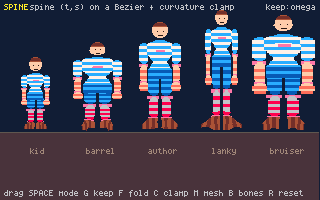
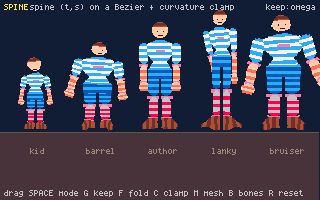
boxhuman: five attitudes, not just five bodies (per-build rest pose)

diff --git a/tools/carts/boxhuman.c b/tools/carts/boxhuman.c
@@ -9,13 +9,14 @@
   "teaches": ["rigid-body", "procedural-mesh"],
   "lineage": "Slice 4 of the playtime-into-dreamengine port. puppet.c gave the data-driven Rig (parts + sprung hinges); boxskin.c skinned ONE texture across ONE elbow with LBS. This is the whole figure: the 1:1 between sprite and body is broken (15 invisible bones, 6 sprite skins), weights come from distance to a bone SEGMENT rather than to a bone centre (playtime's applySegmentWeights lesson: point-distance collapses mesh width at bone midpoints), and the blend is DQS rather than LBS so a folded knee doesn't candy-wrapper. A whole leg is ONE texture bending at hip, knee AND ankle.",
   "description": {
-    "summary": "FIVE DIFFERENT PEOPLE built from one rig table and one sprite sheet: a small kid with a big head and short limbs, a barrel with a long thick torso on short legs, the rig exactly as authored, a lanky one with long legs and a small head, and a broad bruiser. Nothing about them is hand-placed. Each build states a stiffness multiplier for its joint springs (the floppiest sags, the stiffest stands rigid), an overall size, an overall thickness, and how long and how thick the bones of each GROUP are, and the rig walks its own parent chain to work out where every bone and every sprite pixel ends up. Lengthen a thigh and the knee, the ankle, the foot and the whole leg strip follow. Each limb is a single continuous sprite strip stretched over several Box2D bones. The right leg is one 20x62 texture that bends at the hip, the knee and the ankle; the left leg is the SAME texture mirrored, and all five guys share that one sheet. Each figure gets its own Box2D collision group, so a guy ignores his own limbs but bumps into his neighbours. Press F to fold a limb to its limit, then SPACE to A/B four ways of deforming that texture: a Bezier SPINE, dual-quaternion and linear weighted blends, and rigid one-bone-per-vertex. Every limb is BANDED across its axis on purpose: a flat colour tells you nothing about how a skin deformed, but a regular stripe fans out on the outside of a bend, bunches on the inside, and shears visibly the moment a blend mode gets it wrong.",
-    "detail": "Four deformation modes over one rig, because the interesting question is not how to attach a texture to a bone but what happens at a hard bend. SPINE is playtime's MESHUSERT spine-bind ported: each vertex is stored as (t, s) — arc-length fraction along a Bezier drawn through the limb's joint chain, plus signed perpendicular offset — and replanted each frame on the live curve, with no weights and nothing to tune. On top of it sits a CURVATURE CLAMP. playtime's own miter clamp (written for its ribbon path, never wired into spine-bind) was tried first and measured worse than no clamp: it is the right formula for a polyline corner, but a Bezier spine has no such corner, so min(segA,segB) only measures sample spacing and collapses exactly at a bend. The correct bound is the local radius of curvature - an offset curve folds on the concave side once the offset exceeds R - and clamping to 0.92R takes the fold artifact to zero at every angle tested. The cart carries its own oracle for this — every triangle's winding is baked at bind time and compared each frame, so 'inverted triangles' is a number, not an opinion. At a full elbow-and-knee fold: SPINE+clamp 4, SPINE without clamp 7, DQS 19, LBS 19, RIGID 43, out of 880. The structural move over puppet.c: BONES and SKINS are separate lists. 15 bones are invisible Box2D boxes joined by sprung, angle-limited revolutes (pelvis, chest, head, and upper/lower/extremity for each of four limbs). 6 skins are sprite rects from the sheet, each naming the subset of bones that deforms it. Per skin: a grid over the rect's opaque pixels becomes a triangle mesh; each vertex is weighted by 1-smoothstep(0, radius, distanceToBoneSegment), pruned to the best 3 bones and renormalised; bind pose stores the vertex in each bone's LOCAL frame plus that bone's rest angle. Each frame the vertex is placed by blending the bones' DELTA rotations as a circular mean, rotating the bind vertex once by that blend, then adding the weight-averaged translation residual, and tritex draws the triangles with UVs that never move. Left and right limbs share one sprite rect: the geometry mirrors, the UVs do not. The sprite sheet is drawn as a deformation TEST PATTERN — breton torso, banded sleeves and shorts, striped socks, cross-banded shoes — so the eye can read stretch and shear directly instead of guessing from a silhouette. The per-bone blend radius is what keeps a foot rigid while a thigh blends over 14 pixels. BUILDS, and why the rig is now WALKED: an affine transform of the table can make a figure bigger or thicker, and that is all it can do. Real proportions cannot come from it, because BONES[] stores absolute positions, so lengthening a thigh would leave the knee, the ankle, the foot and the leg skin's rest placement exactly where they were. So the table became the REFERENCE pose and each build derives its own rig from it, parent first: a bone keeps its authored direction, takes its group's length, and starts at the same spot on its parent's DERIVED segment, which is what makes a longer chest carry the shoulder up with it and a wider pelvis spread both legs. Two primitives do all of it, and they are the spine bind's decomposition applied per bone instead of per chain: a point maps to (fraction along a bone, signed perpendicular offset), and that pair maps back onto the build's version of that bone with the offset scaled by its thickness. The skins ride the same remap, weight-blended by the smoothstep the skinning already uses so seams between bones stay smooth, which is the substitution that turns a scaled copy into a different build: the leg strip's rest position becomes a function of where the shin ENDED UP. Doing it at BIND and not at draw keeps it free, since the mesh is born the shape this figure is and no per-frame code knows the difference. Two invariants guard it. Round-tripping through both primitives is the identity, so the unproportioned 'author' build must render exactly as the pre-derivation cart did: it does, bit for bit, once the derived rest pose is snapped to a 1/256 px grid (without the snap a vertex authored exactly on an integer came back a hair either side of it and moved a shared triangle edge by a pixel). And the winding oracle says the shapes are honest: a 300-frame fold peaks at 15 inverted triangles of 22000 against 12 for five plain scaled copies, with the weighted modes slightly BETTER than before. The per-build flip counter earns its keep here by showing the two mode families fail for opposite reasons: the weighted blends are wrecked by deep poses (the floppiest build owns 60% of their inversions, the thickest is nearly clean) while SPINE is indifferent to pose and vulnerable to THICKNESS, since an offset curve folds once the offset passes the local radius of curvature. Proportions feed back into the physics too: the big-headed kid is top-heavy and needs roughly twice the joint stiffness of the old floppiest build to stay on its feet (measured 0.41 of its rest height at stiff 0.35, 0.81 at 0.65). Springs deliberately do NOT scale with size; the source carries the measurement that says the correction is inert across this range.",
+    "summary": "FIVE DIFFERENT PEOPLE built from one rig table and one sprite sheet: a small kid with a big head and short limbs, a barrel with a long thick torso on short legs, the rig exactly as authored, a lanky one with long legs and a small head, and a broad bruiser. Nothing about them is hand-placed. Each build states a stiffness multiplier for its joint springs (the floppiest sags, the stiffest stands rigid), an overall size, an overall thickness, how long and how thick the bones of each GROUP are, and a short list of joints turned away from the authored rest to give it an ATTITUDE: the kid cocks its head, the barrel leans back with its arms off its belly, the lanky one stoops with its arms tucked in, the bruiser cannot put its arms down. The rig then walks its own parent chain to work out where every bone and every sprite pixel ends up. Lengthen a thigh and the knee, the ankle, the foot and the whole leg strip follow; tilt a chest and the shoulders, both arms, the head and their skins swing with it. Each limb is a single continuous sprite strip stretched over several Box2D bones. The right leg is one 20x62 texture that bends at the hip, the knee and the ankle; the left leg is the SAME texture mirrored, and all five guys share that one sheet. Each figure gets its own Box2D collision group, so a guy ignores his own limbs but bumps into his neighbours. Press F to fold a limb to its limit, then SPACE to A/B four ways of deforming that texture: a Bezier SPINE, dual-quaternion and linear weighted blends, and rigid one-bone-per-vertex. Every limb is BANDED across its axis on purpose: a flat colour tells you nothing about how a skin deformed, but a regular stripe fans out on the outside of a bend, bunches on the inside, and shears visibly the moment a blend mode gets it wrong.",
+    "detail": "Four deformation modes over one rig, because the interesting question is not how to attach a texture to a bone but what happens at a hard bend. SPINE is playtime's MESHUSERT spine-bind ported: each vertex is stored as (t, s) — arc-length fraction along a Bezier drawn through the limb's joint chain, plus signed perpendicular offset — and replanted each frame on the live curve, with no weights and nothing to tune. On top of it sits a CURVATURE CLAMP. playtime's own miter clamp (written for its ribbon path, never wired into spine-bind) was tried first and measured worse than no clamp: it is the right formula for a polyline corner, but a Bezier spine has no such corner, so min(segA,segB) only measures sample spacing and collapses exactly at a bend. The correct bound is the local radius of curvature - an offset curve folds on the concave side once the offset exceeds R - and clamping to 0.92R takes the fold artifact to zero at every angle tested. The cart carries its own oracle for this — every triangle's winding is baked at bind time and compared each frame, so 'inverted triangles' is a number, not an opinion. At a full elbow-and-knee fold: SPINE+clamp 4, SPINE without clamp 7, DQS 19, LBS 19, RIGID 43, out of 880. The structural move over puppet.c: BONES and SKINS are separate lists. 15 bones are invisible Box2D boxes joined by sprung, angle-limited revolutes (pelvis, chest, head, and upper/lower/extremity for each of four limbs). 6 skins are sprite rects from the sheet, each naming the subset of bones that deforms it. Per skin: a grid over the rect's opaque pixels becomes a triangle mesh; each vertex is weighted by 1-smoothstep(0, radius, distanceToBoneSegment), pruned to the best 3 bones and renormalised; bind pose stores the vertex in each bone's LOCAL frame plus that bone's rest angle. Each frame the vertex is placed by blending the bones' DELTA rotations as a circular mean, rotating the bind vertex once by that blend, then adding the weight-averaged translation residual, and tritex draws the triangles with UVs that never move. Left and right limbs share one sprite rect: the geometry mirrors, the UVs do not. The sprite sheet is drawn as a deformation TEST PATTERN — breton torso, banded sleeves and shorts, striped socks, cross-banded shoes — so the eye can read stretch and shear directly instead of guessing from a silhouette. The per-bone blend radius is what keeps a foot rigid while a thigh blends over 14 pixels. BUILDS, and why the rig is now WALKED: an affine transform of the table can make a figure bigger or thicker, and that is all it can do. Real proportions cannot come from it, because BONES[] stores absolute positions, so lengthening a thigh would leave the knee, the ankle, the foot and the leg skin's rest placement exactly where they were. So the table became the REFERENCE pose and each build derives its own rig from it, parent first: a bone keeps its authored direction, takes its group's length, and starts at the same spot on its parent's DERIVED segment, which is what makes a longer chest carry the shoulder up with it and a wider pelvis spread both legs. Two primitives do all of it, and they are the spine bind's decomposition applied per bone instead of per chain: a point maps to (fraction along a bone, signed perpendicular offset), and that pair maps back onto the build's version of that bone with the offset scaled by its thickness. The skins ride the same remap, weight-blended by the smoothstep the skinning already uses so seams between bones stay smooth, which is the substitution that turns a scaled copy into a different build: the leg strip's rest position becomes a function of where the shin ENDED UP. Doing it at BIND and not at draw keeps it free, since the mesh is born the shape this figure is and no per-frame code knows the difference. Two invariants guard it. Round-tripping through both primitives is the identity, so the unproportioned 'author' build must render exactly as the pre-derivation cart did: it does, bit for bit, once the derived rest pose is snapped to a 1/256 px grid (without the snap a vertex authored exactly on an integer came back a hair either side of it and moved a shared triangle edge by a pixel). And the winding oracle says the shapes are honest: a 300-frame fold peaks at 15 inverted triangles of 22000 against 12 for five plain scaled copies, with the weighted modes slightly BETTER than before. The per-build flip counter earns its keep here by showing the two mode families fail for opposite reasons: the weighted blends are wrecked by deep poses (the floppiest build owns 60% of their inversions, the thickest is nearly clean) while SPINE is indifferent to pose and vulnerable to THICKNESS, since an offset curve folds once the offset passes the local radius of curvature. A build's POSE rides the same walk (a rotation folded into the chain, accumulating down it the way a real skeleton does) and becomes that build's rest: the joint limits are measured from it and KEEP_ANGLE defends it, so a stoop stays a stoop under gravity rather than being a starting condition that decays. The bodies still rest at rotation identity with every reference angle at zero, because the pose goes into the SHAPE exactly as the authored direction always did, which keeps the joint branch-cut trap shut. Shape and attitude both feed back into the physics, which is the honest half of doing it this way rather than drawing five sprites: the big-headed kid is top-heavy and needs roughly twice the joint stiffness of the old floppiest build to stay on its feet (measured 0.41 of its rest height at stiff 0.35, 0.82 at 0.65), and the rig being a SIDE view bounds what a pose can even say. Turning a foot here does not splay it outward, it lifts the toe, and a figure balancing on a tilted sole sags: that alone cost the smallest build 0.14 of its standing height, while the head angle it was blamed on measured nothing at all. Feet stay flat; poses live in the sagittal plane. Springs deliberately do NOT scale with size; the source carries the measurement that says the correction is inert across this range.",
     "controls": "Drag any bone with the mouse to pose the figure. F drives the right elbow and knee to a full fold (the extreme-pose test - a mouse drag cannot reliably reach it, the chain would rather swing at the hip). SPACE cycles SPINE / DQS / LBS / RIGID. C toggles spine mode's curvature clamp. M shows the mesh wireframe. B shows the bone skeleton. R resets."
   },
   "todo": [
     "Proportions are stated per GROUP (torso, head, arm, leg), because 15 numbers per build would be the second rig table this cart refuses to have. Per-BONE would buy a pot belly over a normal chest, or one arm longer than the other, and the machinery already takes it: bg[] and the derived segments are per bone, only the authoring is grouped. What that needs is a way to state it without a wall of numbers, which is a design question rather than a code one.",
-    "The chain walk keeps each bone's AUTHORED direction, so proportions can change lengths and thicknesses but not the rest pose. Letting a build state joint angles too (a slouch, a swagger, splayed feet) is the same walk with a rotation folded in, and it would make the crowd read as five attitudes and not just five bodies.",
+    "Poses are authored in degrees per joint, which is honest but blunt: what a build actually wants to say is 'stand like this', and the same attitude on a 0.72x kid and a 1.08x bruiser does not read the same. A named pose vocabulary (slouch, swagger, at-ease) resolved against the build would be the next step, and it is the same question the per-bone proportion rung asks: how do you state this without a wall of numbers.",
+    "Nothing yet drives a pose over TIME. The walk already accepts any angle, so a build could breathe, shift its weight or fidget by feeding proportion() a slow oscillation, except that would mean rebinding the meshes every frame (the whole point of binding once is that it is free). The cheap version is to leave the bind alone and drive the joints' targetAngle instead, which is what the F fold already does to two of them.",
     "Stretched stripes: the banding is baked into the sheet, so a scaled limb gets scaled banding. It reads as 'different build' rather than wrong, but five scales of one drawing is not five characters. Genuinely different silhouettes need their own sprite rects.",
     "Promote the skinning half to runtime/boneskin.h once a second cart wants it - the Fig struct, both binds, the four modes and the winding oracle. The crowd refactor already proved the seam: one rig TABLE, N instances.",
     "Spine-bind can't branch, so the torso and head still fall back to DQS. playtime's multi-chain bind (hard per-vertex chain assignment) is the next rung.",
@@ -179,6 +180,7 @@ typedef struct {
     // coordinates directly — BONES[] is the reference pose, not any figure.
     float     pax[NBONE], pay[NBONE], pbx[NBONE], pby[NBONE];
     float     bg[NBONE];
+    float     pang[NBONE];                // accumulated rest rotation down the chain
     float     restUp;                     // head height above the floor at rest, px.
                                           // Captured per build because proportions
                                           // change it: "is he still standing" can
@@ -210,22 +212,49 @@ static int bone_group(int b) {
 //            thigh has to carry the knee, the ankle, the foot and the leg skin's
 //            whole rest placement with it, which is why the rig is now WALKED
 //            (proportion()) instead of read off the table.
+//   pose[]  — the ATTITUDE: a sparse list of joints turned away from the authored
+//            rest, in degrees. Sparse and per-joint because that is what a pose
+//            is — a slouch is two joints, not fifteen. It rides the same walk as
+//            everything else (a rotation folded into the chain), so a tilted
+//            chest carries the shoulders, the arms, the head and their skins with
+//            it, and it becomes this build's REST: joint limits are measured from
+//            it and KEEP_ANGLE defends it, which is why a build can stand with
+//            its feet turned out and keep them turned out.
+//            SIGN: positive turns a bone that points DOWN toward -x (screen left),
+//            so an arm swings OUT with a negative angle on the right side of the
+//            body and a positive one on the left.
+//            The rig is a SIDE view, which bounds what a pose can say: rotating a
+//            foot here does not splay it outward, it lifts the toe, and a figure
+//            balancing on a tilted sole sags (measured: it cost the smallest build
+//            0.14 of its standing height, and no amount of head angle mattered
+//            next to it). Feet stay flat. Poses live in the sagittal plane only.
+typedef struct { int bone; float deg; } PoseKey;
 typedef struct {
     const char *name;
     float dx, stiff, sc, girth;
     float len[NGROUP], grth[NGROUP];      // { torso, head, arm, leg }
+    PoseKey pose[6]; int npose;
 } BuildDef;
 static const BuildDef BUILDS[NFIG] = {
     //   name        dx   stiff     sc   girth  len{tor  head  arm   leg}  girth{tor head  arm   leg}
-    { "kid",       -124, 0.65f, 0.72f, 0.95f, {0.95f,1.15f,0.85f,0.82f}, {1.00f,1.25f,0.95f,1.00f} },
-    { "barrel",     -62, 0.85f, 0.86f, 1.28f, {1.08f,0.95f,0.95f,0.85f}, {1.10f,0.80f,0.95f,1.00f} },
-    { "author",       0, 1.00f, 1.00f, 1.00f, {1.00f,1.00f,1.00f,1.00f}, {1.00f,1.00f,1.00f,1.00f} },
-    { "lanky",       62, 1.45f, 1.02f, 0.80f, {1.00f,0.92f,1.15f,1.22f}, {1.00f,1.05f,0.90f,0.90f} },
-    { "bruiser",    124, 2.10f, 1.08f, 1.18f, {1.05f,0.95f,1.10f,0.95f}, {1.15f,0.85f,1.20f,1.05f} },
+    { "kid",       -124, 0.65f, 0.72f, 0.95f, {0.95f,1.15f,0.85f,0.82f}, {1.00f,1.25f,0.95f,1.00f},
+        { {B_HEAD,-8}, {B_UARM_R,-9}, {B_UARM_L,9} }, 3 },           // head cocked, arms held out
+    { "barrel",     -62, 0.85f, 0.86f, 1.28f, {1.08f,0.95f,0.95f,0.85f}, {1.10f,0.80f,0.95f,1.00f},
+        { {B_CHEST,4}, {B_UARM_R,-13}, {B_UARM_L,13} }, 3 },         // leaning back, arms off the belly
+    { "author",       0, 1.00f, 1.00f, 1.00f, {1.00f,1.00f,1.00f,1.00f}, {1.00f,1.00f,1.00f,1.00f},
+        { {0,0} }, 0 },                                              // the reference: NO pose, by definition
+    { "lanky",       62, 1.45f, 1.02f, 0.80f, {1.00f,0.92f,1.15f,1.22f}, {1.00f,1.05f,0.90f,0.90f},
+        { {B_CHEST,-7}, {B_HEAD,9}, {B_UARM_R,5}, {B_UARM_L,-5} }, 4 },  // stooped, arms tucked in
+    { "bruiser",    124, 2.10f, 1.08f, 1.18f, {1.05f,0.95f,1.10f,0.95f}, {1.15f,0.85f,1.10f,1.05f},
+        { {B_UARM_R,-17}, {B_UARM_L,17}, {B_CHEST,-3} }, 3 },        // arms out, chest up
     // kid: short limbs under a big head (a child's proportions, not a small
     // adult). barrel: long thick torso on short legs. lanky: long legs and arms,
     // small head, thin everywhere. bruiser: heavy torso and arms, short legs.
 };
+static float pose_deg(const BuildDef *B, int b) {
+    for (int i = 0; i < B->npose; i++) if (B->pose[i].bone == b) return B->pose[i].deg;
+    return 0.0f;
+}
 
 // The authored rig's centre line and SOLE line. Size scales about the sole so a
 // small guy still stands ON the floor rather than hovering or sinking, and about
@@ -274,12 +303,13 @@ static int  mode = 3;   // 0=DQS 1=LBS 2=RIGID 3=SPINE. SPINE is the default now
                         // floppy guys collapse and pile up — and there they part.
                         // Peak inverted triangles over a 300-frame F fold, out of
                         // the crowd's 22000, and the same number split by BUILD
-                        // (summed over the run) now that the five are proportioned:
+                        // (summed over the run) now that the five are proportioned
+                        // AND posed:
                         //                 peak    kid barrel author lanky bruiser
-                        //   SPINE+clamp     15     147  1098     79   466     546
-                        //   DQS             44    3493  1389    242   329     109
-                        //   LBS             44    3493  1389    242   329     109
-                        //   RIGID          106    7940  6397   3203  1670       0
+                        //   SPINE+clamp     18     259  1172     74   426    1041
+                        //   DQS             50    3320  2200    224   403     813
+                        //   LBS             50    3320  2200    224   403     813
+                        //   RIGID          123    7628  7109   3132  2012       0
                         // Three things fall out of that split. DQS and LBS are
                         // byte identical, as they were before the crowd grew: the
                         // triangles that invert are ones both blends get wrong.
@@ -291,11 +321,20 @@ static int  mode = 3;   // 0=DQS 1=LBS 2=RIGID 3=SPINE. SPINE is the default now
                         // it doesn't care how deep the pose goes, but thickness is
                         // exactly its weak spot, since an offset curve folds once
                         // the offset passes the local radius of curvature, so the
-                        // two thick builds contribute 1644 of its 2336 and the
-                        // small one almost none. Third, and the reason the table
-                        // is here: making the five DIFFERENT SHAPES rather than
-                        // five sizes cost almost nothing — 12 to 15 peak in the
-                        // default mode, and the weighted modes came down slightly.
+                        // two thick builds contribute 2213 of its 2972 and the
+                        // small one almost none. That asymmetry is the argument for
+                        // keeping both modes in the cart: neither is strictly the
+                        // better skin, they are wrong about different things.
+                        // Third, and the reason the table is here: shapes and
+                        // attitudes cost surprisingly little. Five plain scaled
+                        // copies peaked at 12; proportioning them took it to 15 and
+                        // posing them to 18, i.e. 0.08% of the triangles, while the
+                        // weighted modes moved by a handful either way. The one
+                        // build knob that DOES move this number is thickness on a
+                        // limb that is already bent at rest: the bruiser's arms at
+                        // 1.42x measured 23 peak and 1584 of its own, at 1.30x it
+                        // is 18 and 1041, which is why the table ships the thinner
+                        // one — same silhouette, a third fewer inversions.
                         // Torso and head have no chain and fall back to DQS either
                         // way, so nothing is lost by defaulting to spine.
 static bool showMesh = false, showBones = false, folding = false, curveClamp = true;
@@ -361,31 +400,41 @@ static void bone_place(const Fig *F, int b, float u, float d, float *ox, float *
     *oy = ay + u*dy + g * ( dx/l);
 }
 
-// Walk the rig parent-first, building this figure's rest segments. A bone keeps
-// the DIRECTION it was authored at (proportions don't pose anything, and the
-// bodies must still rest at identity — see the branch-cut note in make_bones)
-// and takes its group's length. Its START is the same (u,d) spot on its parent's
-// derived segment, which is what makes the chain a chain: a longer chest carries
-// the shoulder up with it, a thicker chest carries it outward, and both legs
-// spread when the pelvis does.
+// Walk the rig parent-first, building this figure's rest segments. A bone takes
+// its group's LENGTH, its own pose ANGLE plus every angle its ancestors turned
+// (so the pose accumulates down the chain, the way a real skeleton does), and it
+// starts at the same (u,d) spot on its parent's DERIVED segment. That last part
+// is what makes the chain a chain: a longer chest carries the shoulder up with
+// it, a thicker chest carries it outward, a tilted chest swings it round, and
+// both legs spread when the pelvis widens.
+//
+// The bodies still rest at rotation IDENTITY with every joint's reference angle
+// at 0 — the pose goes into the SHAPE, exactly as the authored direction always
+// did, so the branch-cut trap in make_bones stays shut and "joint angle 0" still
+// means "this build's rest pose".
 static void proportion(Fig *F, const BuildDef *B) {
     for (int i = 0; i < NBONE; i++) {              // parents first: the enum guarantees it
         const BoneDef *d = &BONES[i];
         int g = bone_group(i);
         F->bg[i] = B->grth[g] * B->girth;
+        F->pang[i] = (d->parent >= 0 ? F->pang[d->parent] : 0.0f) + pose_deg(B, i)*DEG;
         float sx = d->ax, sy = d->ay;
         if (d->parent >= 0) {
             float u, off;
             bone_uv(d->parent, d->ax, d->ay, &u, &off);
             bone_place(F, d->parent, u, off, &sx, &sy);
         }
-        // Scaling a bone's LENGTH is just scaling its authored delta. Normalising
-        // to a unit direction and multiplying the length back in says the same
-        // thing and rounds twice doing it, which showed up as a pixel or two of
-        // drift on the unproportioned build.
+        // Scaling a bone's LENGTH is just scaling its authored delta, and posing
+        // it is rotating that same delta. Normalising to a unit direction and
+        // multiplying the length back in says the same thing and rounds twice
+        // doing it, which showed up as a pixel or two of drift on the
+        // unproportioned build. An unposed bone takes cos 1 / sin 0 and so comes
+        // through this exactly, which is what keeps "author" bit-exact.
+        float dx = (d->bx - d->ax) * B->len[g], dy = (d->by - d->ay) * B->len[g];
+        float c = cosf(F->pang[i]), s = sinf(F->pang[i]);
         F->pax[i] = sx; F->pay[i] = sy;
-        F->pbx[i] = sx + (d->bx - d->ax) * B->len[g];
-        F->pby[i] = sy + (d->by - d->ay) * B->len[g];
+        F->pbx[i] = sx + dx*c - dy*s;
+        F->pby[i] = sy + dx*s + dy*c;
     }
     // Re-anchor the SOLE. Longer legs grow DOWNWARD from the pelvis, so without
     // this a long-legged build spawns with its feet through the floor and gets
